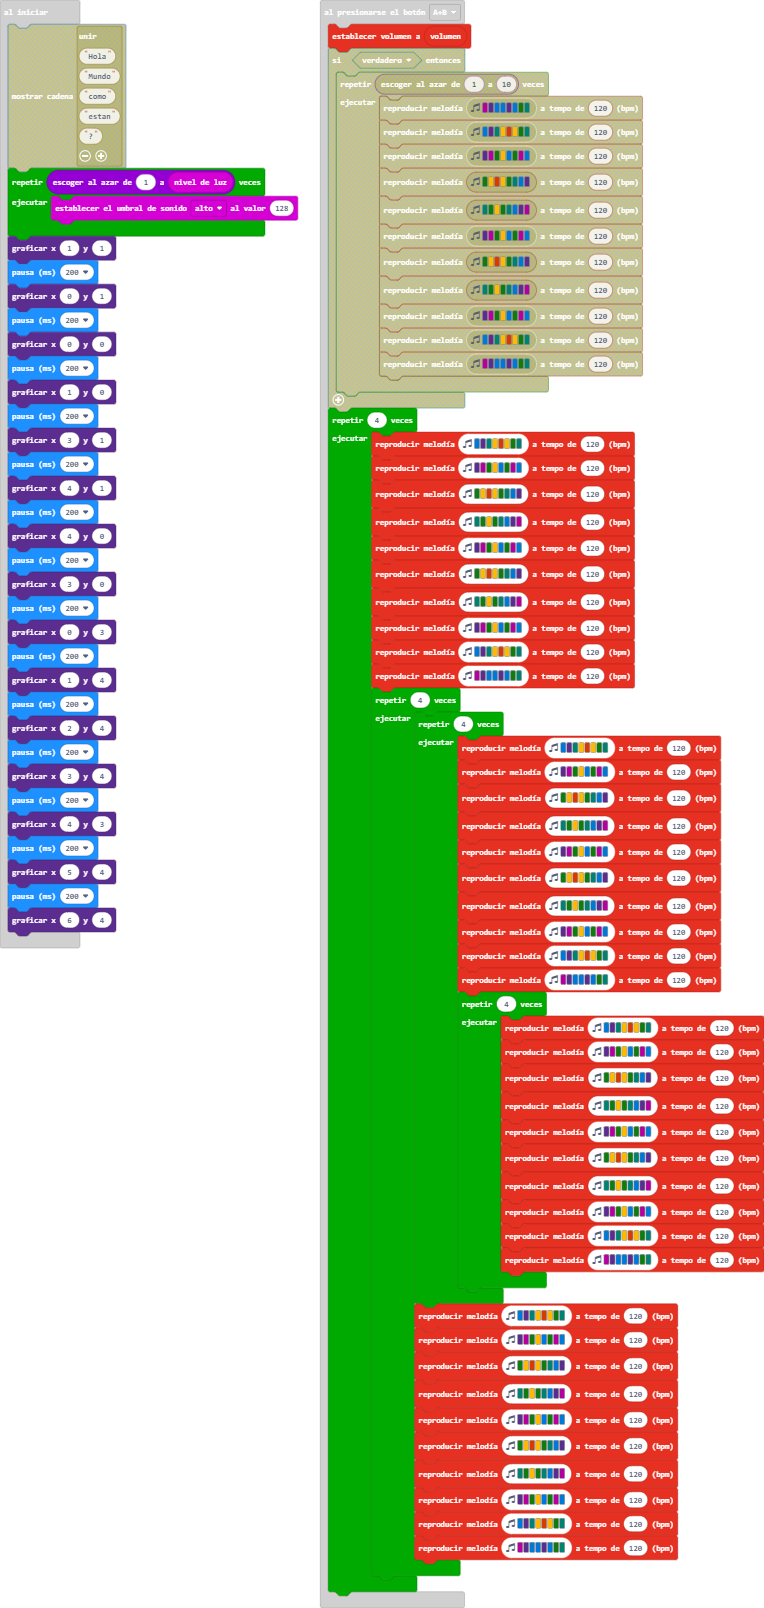
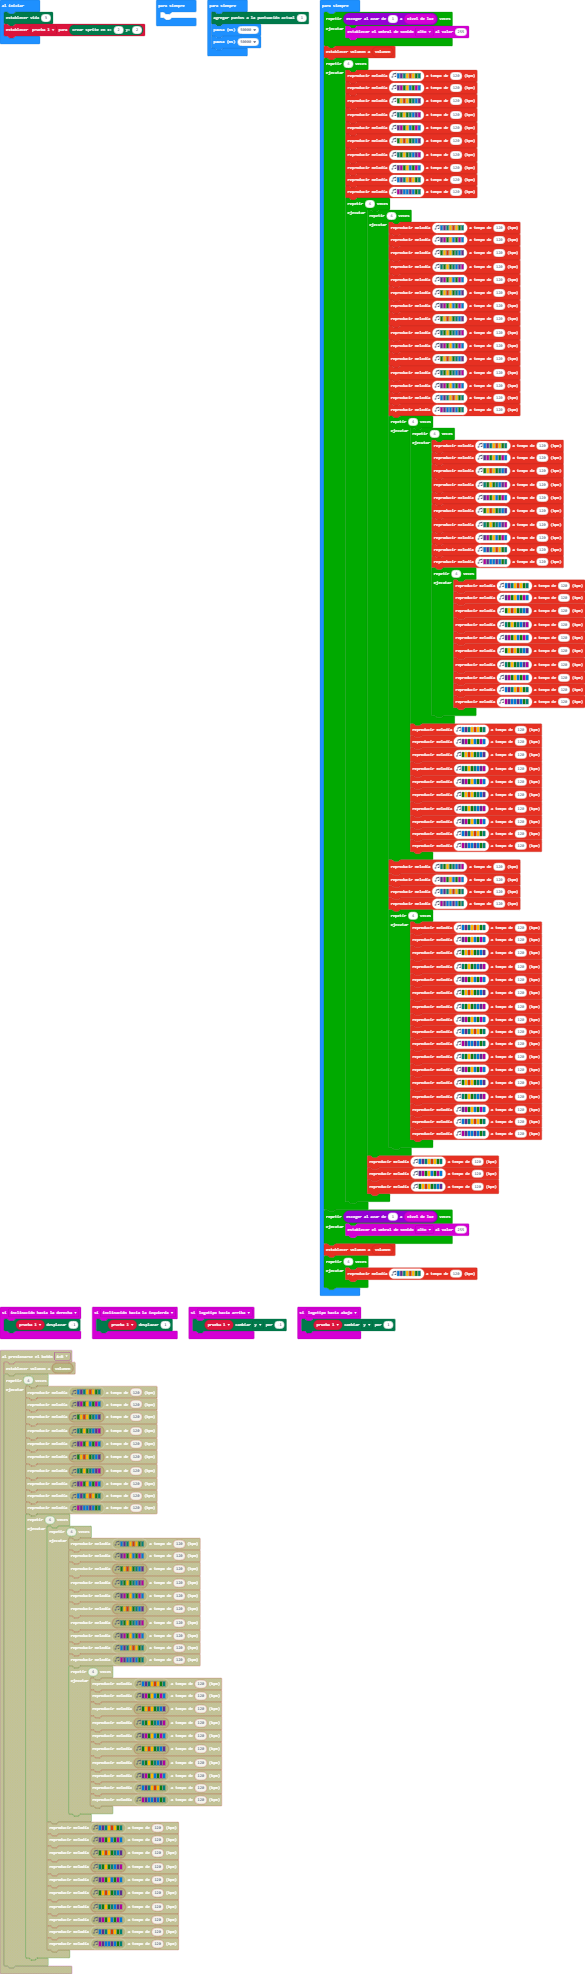
Actualizar main.blocks, main.ts

diff --git a/main.ts b/main.ts
@@ -1,4 +1,30 @@
-input.onButtonPressed(Button.AB, function () {
+input.onGesture(Gesture.LogoUp, function () {
+    prueba_1.change(LedSpriteProperty.Y, -1)
+})
+input.onGesture(Gesture.TiltRight, function () {
+    prueba_1.move(-1)
+})
+input.onGesture(Gesture.TiltLeft, function () {
+    prueba_1.move(1)
+})
+input.onGesture(Gesture.LogoDown, function () {
+    prueba_1.change(LedSpriteProperty.Y, 1)
+})
+let prueba_1: game.LedSprite = null
+game.setLife(3)
+prueba_1 = game.createSprite(2, 2)
+basic.forever(function () {
+	
+})
+basic.forever(function () {
+    game.addScore(1)
+    basic.pause(50000)
+    basic.pause(50000)
+})
+basic.forever(function () {
+    for (let index = 0; index < randint(1, input.lightLevel()); index++) {
+        input.setSoundThreshold(SoundThreshold.Loud, 255)
+    }
     music.setVolume(music.volume())
     for (let index = 0; index < 4; index++) {
         music.playMelody("E D F A B A G F ", 120)
@@ -19,6 +45,51 @@ input.onButtonPressed(Button.AB, function () {
                 music.playMelody("F G A G F E D C ", 120)
                 music.playMelody("D C G A E G C E ", 120)
                 music.playMelody("G A B A G F E D ", 120)
+                music.playMelody("D C G A E G C E ", 120)
+                music.playMelody("G A B A G F E D ", 120)
+                music.playMelody("F G A G F E D C ", 120)
+                music.playMelody("D C G A E G C E ", 120)
+                music.playMelody("G A B A G F E D ", 120)
+                music.playMelody("F G A G F E D C ", 120)
+                music.playMelody("D C G A E G C E ", 120)
+                music.playMelody("E D F A B A G F ", 120)
+                music.playMelody("C D E E D E G F ", 120)
+                for (let index = 0; index < 4; index++) {
+                    for (let index = 0; index < 4; index++) {
+                        music.playMelody("E D F A B A G F ", 120)
+                        music.playMelody("D C G A E G C E ", 120)
+                        music.playMelody("G A B A G F E D ", 120)
+                        music.playMelody("F G A G F E D C ", 120)
+                        music.playMelody("D C G A E G C E ", 120)
+                        music.playMelody("G A B A G F E D ", 120)
+                        music.playMelody("F G A G F E D C ", 120)
+                        music.playMelody("D C G A E G C E ", 120)
+                        music.playMelody("E D F A B A G F ", 120)
+                        music.playMelody("C D E E D E G F ", 120)
+                        for (let index = 0; index < 4; index++) {
+                            music.playMelody("E D F A B A G F ", 120)
+                            music.playMelody("D C G A E G C E ", 120)
+                            music.playMelody("G A B A G F E D ", 120)
+                            music.playMelody("F G A G F E D C ", 120)
+                            music.playMelody("D C G A E G C E ", 120)
+                            music.playMelody("G A B A G F E D ", 120)
+                            music.playMelody("F G A G F E D C ", 120)
+                            music.playMelody("D C G A E G C E ", 120)
+                            music.playMelody("E D F A B A G F ", 120)
+                            music.playMelody("C D E E D E G F ", 120)
+                        }
+                    }
+                    music.playMelody("E D F A B A G F ", 120)
+                    music.playMelody("D C G A E G C E ", 120)
+                    music.playMelody("G A B A G F E D ", 120)
+                    music.playMelody("F G A G F E D C ", 120)
+                    music.playMelody("D C G A E G C E ", 120)
+                    music.playMelody("G A B A G F E D ", 120)
+                    music.playMelody("F G A G F E D C ", 120)
+                    music.playMelody("D C G A E G C E ", 120)
+                    music.playMelody("E D F A B A G F ", 120)
+                    music.playMelody("C D E E D E G F ", 120)
+                }
                 music.playMelody("F G A G F E D C ", 120)
                 music.playMelody("D C G A E G C E ", 120)
                 music.playMelody("E D F A B A G F ", 120)
@@ -34,50 +105,25 @@ input.onButtonPressed(Button.AB, function () {
                     music.playMelody("D C G A E G C E ", 120)
                     music.playMelody("E D F A B A G F ", 120)
                     music.playMelody("C D E E D E G F ", 120)
+                    music.playMelody("F G A G F E D C ", 120)
+                    music.playMelody("D C G A E G C E ", 120)
+                    music.playMelody("G A B A G F E D ", 120)
+                    music.playMelody("F G A G F E D C ", 120)
+                    music.playMelody("D C G A E G C E ", 120)
+                    music.playMelody("E D F A B A G F ", 120)
+                    music.playMelody("C D E E D E G F ", 120)
                 }
             }
             music.playMelody("E D F A B A G F ", 120)
             music.playMelody("D C G A E G C E ", 120)
             music.playMelody("G A B A G F E D ", 120)
-            music.playMelody("F G A G F E D C ", 120)
-            music.playMelody("D C G A E G C E ", 120)
-            music.playMelody("G A B A G F E D ", 120)
-            music.playMelody("F G A G F E D C ", 120)
-            music.playMelody("D C G A E G C E ", 120)
-            music.playMelody("E D F A B A G F ", 120)
-            music.playMelody("C D E E D E G F ", 120)
         }
     }
+    for (let index = 0; index < randint(1, input.lightLevel()); index++) {
+        input.setSoundThreshold(SoundThreshold.Loud, 255)
+    }
+    music.setVolume(music.volume())
+    for (let index = 0; index < 4; index++) {
+        music.playMelody("E D F A B A G F ", 120)
+    }
 })
-for (let index = 0; index < randint(1, input.lightLevel()); index++) {
-    input.setSoundThreshold(SoundThreshold.Loud, 128)
-}
-led.plot(1, 1)
-basic.pause(200)
-led.plot(0, 1)
-basic.pause(200)
-led.plot(0, 0)
-basic.pause(200)
-led.plot(1, 0)
-basic.pause(200)
-led.plot(3, 1)
-basic.pause(200)
-led.plot(4, 1)
-basic.pause(200)
-led.plot(4, 0)
-basic.pause(200)
-led.plot(3, 0)
-basic.pause(200)
-led.plot(0, 3)
-basic.pause(200)
-led.plot(1, 4)
-basic.pause(200)
-led.plot(2, 4)
-basic.pause(200)
-led.plot(3, 4)
-basic.pause(200)
-led.plot(4, 3)
-basic.pause(200)
-led.plot(5, 4)
-basic.pause(200)
-led.plot(6, 4)
